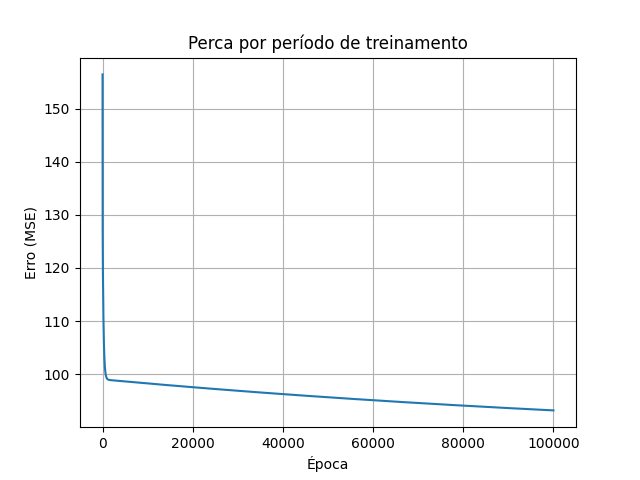
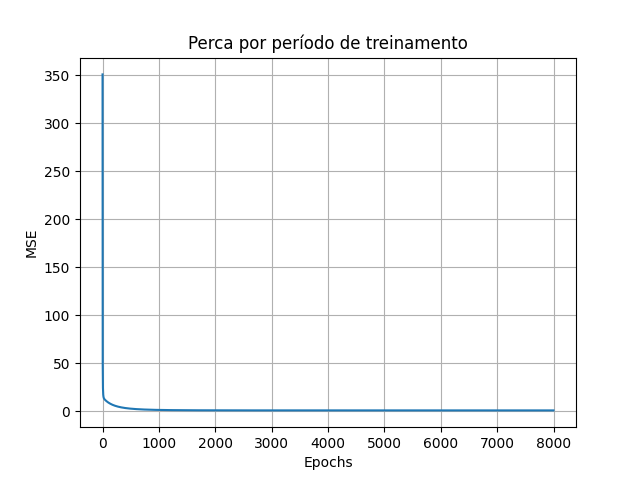
update

diff --git a/App/plotGraphic.py b/App/plotGraphic.py
@@ -2,15 +2,17 @@ from linearRegression import LinearRegression
 import matplotlib.pyplot as plt
 plt.switch_backend('TkAgg')
 from loadData import LoadData
+from normalizeModel import NormalizeModel
 
 class PlotGraphic():
     def __init__(self):
         self.model = LinearRegression()
         self.data = LoadData()
+        self.normalize = NormalizeModel()
     
     def plot_loss(self):
         values = self.model.train_model()
-        plt.plot(values[2])
+        plt.plot(self.normalize.calc_log_denormalize_list(values[2]))
         plt.xlabel("Epochs")
         plt.ylabel("MSE")
         plt.title("Perca por período de treinamento")
@@ -28,3 +30,7 @@ class PlotGraphic():
             plt.title(f"Relation between Age and {self.data.__data.columns[index]}")
             plt.show()
             index += 1
+
+A = PlotGraphic()
+
+A.plot_loss()

diff --git a/App/loadData.py b/App/loadData.py
@@ -10,7 +10,7 @@ class LoadData():
     def __init__(self):
         self.norm = NormalizeModel()
         #self.__data = pd.read_csv(os.getenv("DATAPATH"))
-        self.__data = pd.read_csv('/workspaces/DiabetesAgePrediction/files/diabetes.csv')
+        self.__data = pd.read_csv('/home/ryan/Documents/Python/AI/DiabetesAgePrediction/files/diabetes.csv')
         self.__y_true = self.__data['Age'].values
         self.__x_true = self.__data[['Pregnancies', 'Glucose', 'BloodPressure', 'SkinThickness', 'Insulin', 'BMI']].values
     

diff --git a/README.md b/README.md
@@ -104,7 +104,7 @@ Realizando as devidas ponderações nos parâmetros para encontrar a convergênc
  
 Gráfico que representa a perca ao longo do treinamento do algoritmo:
 
-![Img](graphics/MSE_Epochs.png)
+![Img](graphics/LossPerEpochs.png)
 
 ## Inferência com dados de teste feitos pelo modelo
 - Clique no link abaixo para analisar o resultado de três amostras com seus respectivos resultados:
